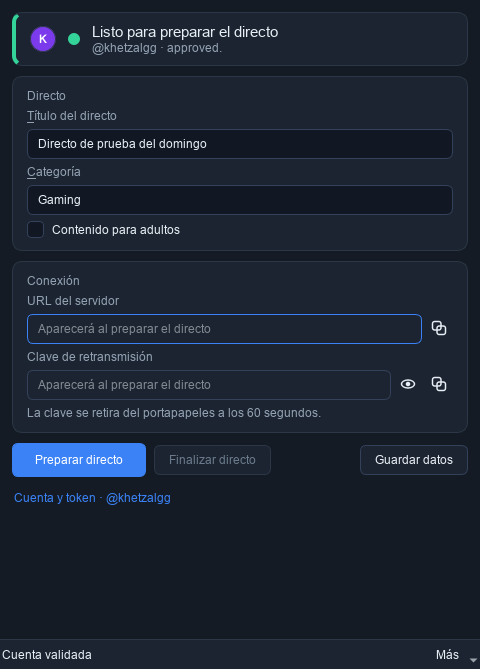
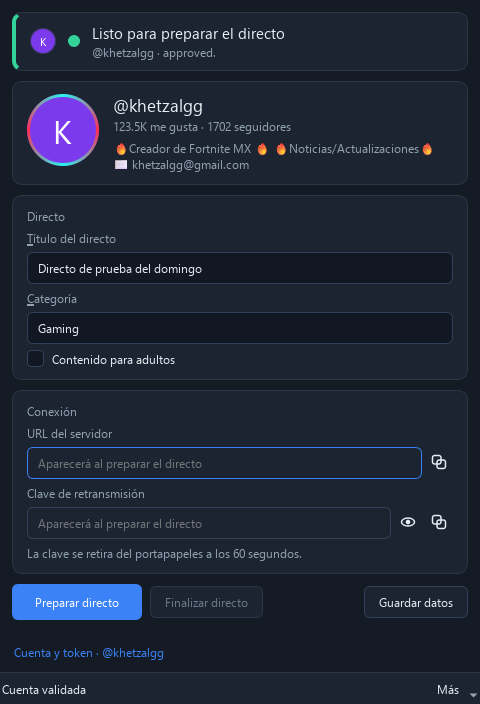
fix(ui): the profile header on the main screen, and follow the dark desktop
Two things the user's own screenshot made obvious:

- The header was on the account page only, because that is what they picked among
  the options, but they open the application and look at the stream screen, where
  there was no biography and no follower count. It is now at the top of both pages:
  first thing on the main one, and on the account one it also stops the page from
  ending in a stretch of nothing.
- Their title bar was dark while the content was light: Windows is in dark mode
  (AppsUseLightTheme = 0) but Qt answers ColorScheme.Unknown, so the application
  never noticed. When Qt has no opinion, the setting the user actually chose is read
  from the registry. Verified on this machine: it now starts dark.

diff --git a/ui/window_ui.py b/ui/window_ui.py
@@ -180,6 +180,9 @@ class WindowUiMixin:
         layout.setContentsMargins(0, 0, 0, 0)
         layout.setSpacing(10)
 
+        # The account header first: who this is about, before what to do with it.
+        layout.addWidget(self._profile_header(account=False))
+
         stream_card, stream_layout = self._card("Directo")
         self.stream_title = QLineEdit()
         self.stream_title.setToolTip("El título que tendrá el directo en TikTok")
@@ -275,11 +278,12 @@ class WindowUiMixin:
         layout.addWidget(self.account_btn)
         return page
 
-    def _build_account_page(self) -> QWidget:
-        page = QWidget()
-        layout = QVBoxLayout(page)
-        layout.setContentsMargins(0, 0, 0, 0)
-        layout.setSpacing(10)
+    def _profile_header(self, *, account: bool) -> QFrame:
+        """Build the account header, once per page.
+
+        Both pages show it: on the main one it is what the user asks about, and on
+        the account one it keeps the page from ending in a stretch of nothing.
+        """
 
         header = QFrame()
         header.setObjectName("card")
@@ -288,8 +292,24 @@ class WindowUiMixin:
         header_layout.setContentsMargins(14, 12, 14, 12)
         header_layout.setSpacing(10)
 
-        self.profile_card = ProfileCard()
-        header_layout.addWidget(self.profile_card)
+        card = ProfileCard()
+        header_layout.addWidget(card)
+        if account:
+            self.account_profile_card = card
+            header_layout.addLayout(self._picture_row())
+            credit = QLabel(
+                'Foto: <a href="https://unavatar.io">unavatar.io</a> · '
+                'perfil: <a href="https://microlink.io">microlink.io</a>'
+            )
+            credit.setObjectName("muted")
+            credit.setOpenExternalLinks(True)
+            header_layout.addWidget(credit)
+        else:
+            self.profile_card = card
+        return header
+
+    def _picture_row(self) -> QHBoxLayout:
+        """The buttons that decide where the picture comes from."""
 
         picture_row = QHBoxLayout()
         picture_row.setSpacing(6)
@@ -312,16 +332,15 @@ class WindowUiMixin:
         self.remove_avatar_btn.clicked.connect(lambda _checked=False: self.remove_avatar())
         picture_row.addWidget(self.remove_avatar_btn)
         picture_row.addStretch(1)
-        header_layout.addLayout(picture_row)
+        return picture_row
 
-        credit = QLabel(
-            'Foto: <a href="https://unavatar.io">unavatar.io</a> · '
-            'perfil: <a href="https://microlink.io">microlink.io</a>'
-        )
-        credit.setObjectName("muted")
-        credit.setOpenExternalLinks(True)
-        header_layout.addWidget(credit)
-        layout.addWidget(header)
+    def _build_account_page(self) -> QWidget:
+        page = QWidget()
+        layout = QVBoxLayout(page)
+        layout.setContentsMargins(0, 0, 0, 0)
+        layout.setSpacing(10)
+
+        layout.addWidget(self._profile_header(account=True))
 
         token_card, token_layout = self._card("Cuenta de Streamlabs")
         self.token_entry = QLineEdit()

diff --git a/ui/theme.py b/ui/theme.py
@@ -9,6 +9,7 @@ from __future__ import annotations
 
 import logging
 import os
+import sys
 from typing import Any
 
 LOGGER = logging.getLogger(__name__)
@@ -96,8 +97,8 @@ def resolve_theme(requested: str | None, system_is_dark: bool | None) -> str:
     return DARK if system_is_dark else LIGHT
 
 
-def system_prefers_dark() -> bool | None:
-    """Return the desktop colour scheme, or ``None`` when it cannot be read."""
+def _qt_color_scheme_is_dark() -> bool | None:
+    """Ask Qt, which knows on most desktops but answers ``Unknown`` on some."""
 
     try:
         from PySide6.QtCore import Qt
@@ -114,6 +115,48 @@ def system_prefers_dark() -> bool | None:
         return False
     # Qt.ColorScheme.Unknown: the platform has no opinion.
     return None
+
+
+def _dark_from_apps_theme(value: Any) -> bool | None:
+    """Turn Windows' ``AppsUseLightTheme`` into an answer: 0 is dark, 1 is light."""
+
+    if isinstance(value, bool) or not isinstance(value, int):
+        return None
+    return value == 0
+
+
+def _windows_prefers_dark() -> bool | None:
+    """Read the theme the user chose in Windows settings.
+
+    Qt answers ``Unknown`` on a desktop that is clearly dark (it does on this
+    machine), so the registry value the Settings app writes is consulted as well.
+    """
+
+    if sys.platform != "win32":
+        return None
+    try:
+        import winreg
+    except ImportError:  # pragma: no cover - winreg exists only on Windows
+        return None
+
+    try:
+        with winreg.OpenKey(
+            winreg.HKEY_CURRENT_USER,
+            r"Software\Microsoft\Windows\CurrentVersion\Themes\Personalize",
+        ) as key:
+            value, _ = winreg.QueryValueEx(key, "AppsUseLightTheme")
+    except OSError:
+        return None
+    return _dark_from_apps_theme(value)
+
+
+def system_prefers_dark() -> bool | None:
+    """Return the desktop colour scheme, or ``None`` when it cannot be read."""
+
+    answer = _qt_color_scheme_is_dark()
+    if answer is not None:
+        return answer
+    return _windows_prefers_dark()
 
 
 def dark_palette() -> Any:

diff --git a/tests/test_theme.py b/tests/test_theme.py
@@ -26,6 +26,52 @@ def test_an_unknown_or_missing_answer_follows_the_desktop():
     assert theme.resolve_theme(None, None) == "light"
 
 
+def test_the_windows_setting_means_dark_when_it_is_zero():
+    assert theme._dark_from_apps_theme(0) is True
+    assert theme._dark_from_apps_theme(1) is False
+
+
+def test_anything_that_is_not_zero_or_one_is_not_an_answer():
+    assert theme._dark_from_apps_theme("0") is None
+    assert theme._dark_from_apps_theme(None) is None
+    assert theme._dark_from_apps_theme(True) is None
+    # Windows only writes 0 or 1; any other number is read as "not dark", which is
+    # the safe direction: a light interface is always usable.
+    assert theme._dark_from_apps_theme(2) is False
+
+
+def test_qt_is_asked_first(monkeypatch):
+    consulted = []
+    monkeypatch.setattr(theme, "_qt_color_scheme_is_dark", lambda: False)
+    monkeypatch.setattr(
+        theme,
+        "_windows_prefers_dark",
+        lambda: consulted.append(True) or True,
+    )
+
+    assert theme.system_prefers_dark() is False
+    assert consulted == []
+
+
+def test_the_windows_setting_is_used_when_qt_does_not_know(monkeypatch):
+    monkeypatch.setattr(theme, "_qt_color_scheme_is_dark", lambda: None)
+    monkeypatch.setattr(theme, "_windows_prefers_dark", lambda: True)
+
+    assert theme.system_prefers_dark() is True
+
+
+def test_without_any_answer_the_desktop_is_simply_unknown(monkeypatch):
+    monkeypatch.setattr(theme, "_qt_color_scheme_is_dark", lambda: None)
+    monkeypatch.setattr(theme, "_windows_prefers_dark", lambda: None)
+
+    assert theme.system_prefers_dark() is None
+
+
+def test_the_registry_answer_can_always_be_asked_for():
+    # On Windows it answers; on the other systems it says it does not know.
+    assert theme._windows_prefers_dark() in (True, False, None)
+
+
 def test_applying_dark_sets_a_genuinely_dark_palette(qapp):
     original_style = qapp.style().objectName()
     original_palette = qapp.palette()

diff --git a/ui/main_window.py b/ui/main_window.py
@@ -1047,20 +1047,25 @@ class StreamApp(WindowUiMixin, DialogsMixin, UpdateFlowMixin, QMainWindow):
         """Draw the account header from whatever is known, inventing nothing."""
 
         profile = self._profile
-        self.profile_card.set_profile(
-            (profile.username if profile else "") or self._last_username,
-            display_name=profile.display_name if profile else "",
-            followers=profile.followers if profile else "",
-            likes=profile.likes if profile else "",
-            bio=profile.bio if profile else "",
-        )
+        for card in (self.profile_card, self.account_profile_card):
+            card.set_profile(
+                (profile.username if profile else "") or self._last_username,
+                display_name=profile.display_name if profile else "",
+                followers=profile.followers if profile else "",
+                likes=profile.likes if profile else "",
+                bio=profile.bio if profile else "",
+            )
         self._sync_account_summary()
 
     def _apply_avatar_picture(self) -> None:
         """Put the chosen picture, if there is one, on every avatar."""
 
         picture = avatar_store.load_avatar()
-        for label in (self.avatar, self.profile_card.avatar):
+        for label in (
+            self.avatar,
+            self.profile_card.avatar,
+            self.account_profile_card.avatar,
+        ):
             label.set_picture(picture)
         self.remove_avatar_btn.setEnabled(picture is not None)
 

diff --git a/tests/test_app_logic.py b/tests/test_app_logic.py
@@ -1214,6 +1214,22 @@ def test_the_header_hides_what_it_does_not_know(app):
     assert app.profile_card.name_label.text() == "@creator"
 
 
+def test_both_pages_show_the_same_header(app):
+    app._apply_profile(profile_store.Profile(username="creator", followers="1702", likes="1K"))
+
+    for card in (app.profile_card, app.account_profile_card):
+        assert card.name_label.text() == "@creator"
+        assert card.numbers_text() == "1K me gusta · 1702 seguidores"
+
+
+def test_the_header_is_on_the_main_screen(app):
+    # It used to be one click away and the user expected it straight away.
+    app._apply_profile(profile_store.Profile(username="creator", followers="1702"))
+
+    assert app.profile_card.isVisibleTo(app.stream_page) is True
+    assert app.account_profile_card.isVisibleTo(app.account_page) is True
+
+
 def test_asking_for_the_account_data_refreshes_the_numbers_too(app, monkeypatch):
     fetched = []
     monkeypatch.setattr(app, "fetch_account_avatar", lambda *a, **k: fetched.append("avatar"))

diff --git a/README.md b/README.md
@@ -93,7 +93,8 @@ ejecutes**: vuélvelo a descargar.
    y **Copiar clave**.
 
 La ventana es **pequeña y de tamaño fijo**: mide exactamente lo que mide su
-contenido, no se redimensiona y no tiene zonas vacías. Te dice en todo momento en
+contenido, no se redimensiona y no tiene zonas vacías. Sigue el **tema del sistema**: si
+Windows está en modo oscuro, la aplicación sale en oscuro. Te dice en todo momento en
 qué punto estás: el **banner de arriba** cambia de color y de texto («Sin token»,
 «Cuenta sin validar», «Listo para preparar el directo», «Directo preparado»), y la
 **barra de abajo** muestra qué está pasando mientras se consulta la cuenta o se
@@ -106,10 +107,10 @@ la aplicación, esa pantalla es la que aparece.
 
 ### La cuenta, su foto y sus datos
 
-La pantalla **Cuenta y token** abre con la **cabecera del perfil**, como la de la propia
-red pero sin nada social: ni seguir, ni mensajes, ni compartir.
-
-Se rellena solo con lo que se puede comprobar, y lo que no se sabe **no se inventa**:
+La **cabecera del perfil** aparece arriba en las dos pantallas —en la principal, nada más
+abrir— y es como la de la propia red pero sin nada social: ni seguir, ni mensajes, ni
+compartir. Se rellena solo con lo que se puede comprobar, y lo que no se sabe **no se
+inventa**:
 
 | Dato | De dónde sale |
 |---|---|
